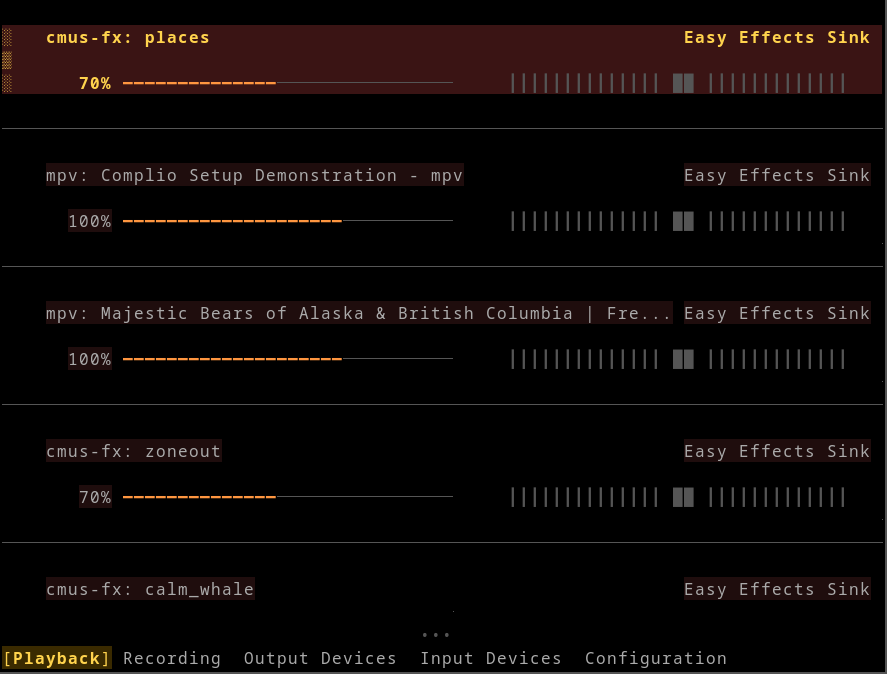
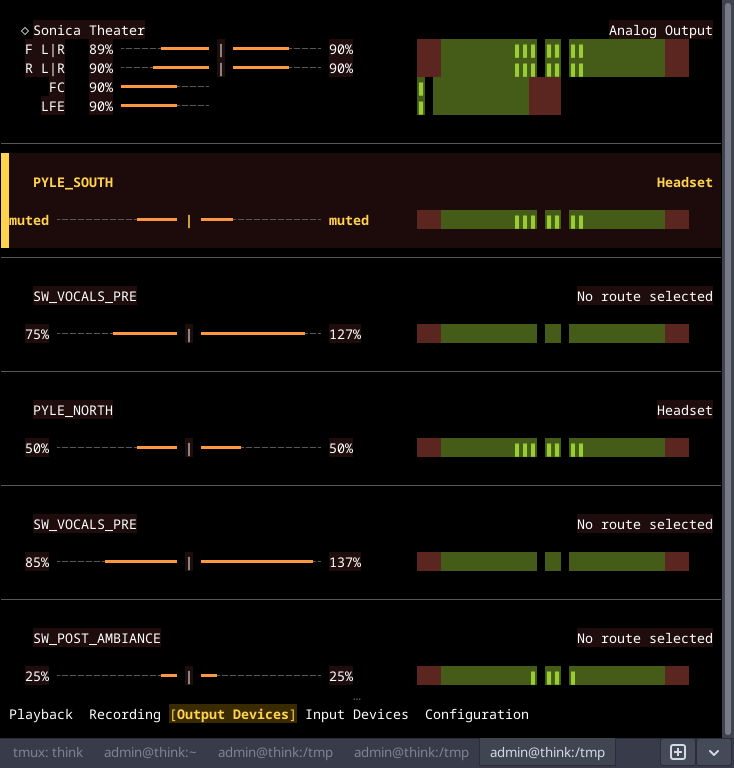
Replace intro screenshots with richer, feature-combining captures
The old default/dark-theme pair showed comparatively little: this
replaces them with captures showing item dividers, linked-view split/
radiating layout on a real 5.1 device, row selection styling, a muted
node, and a genuinely imbalanced stream (SW_VOCALS_PRE) all at once, on
real hardware with live peak activity - not a static/idle state. Also
adds a default vs compat char_set comparison pair, a missing "Peak meter
zone preview" bullet in What's included, and points the multichannel
bullet at PR #76's own longer screenshot gallery instead of duplicating
all of it here.

diff --git a/README.md b/README.md
@@ -35,22 +35,41 @@ experience here is very welcome.
 - **Selected-row text theming** — `row_selected`/`row_unselected` theme
   keys for customizing how the current row's text (not just its
   background) is highlighted.
+- **Peak meter zone preview** — an optional `meter_inactive_overload`
+  color (and matching `compat` glyph) that previews where the overload
+  boundary sits on a meter's unlit portion, before the signal actually
+  reaches it.
 - **A built-in dark theme** (`-t redshift -s redshift_compact`) — ready to
   try with no configuration file needed.
 - **Multichannel and channel-pairing support** — per-channel volume
-  control, an optional split display for a node's individual channels
-  (radiating from a shared center marker for a detected stereo pair, or
-  stacked one row per channel/group), a dedicated Channel mode for
-  addressing one channel at a time, and configurable per-view layout. This
-  is by far the largest change here — see its own section below.
+  control, three views cycled with `Space` (collapsed / linked / per-
+  channel), two ways to flag an imbalanced node without leaving the
+  collapsed view (`unified_imbalance = "cycle"` or `"split"`), radiating
+  or stacked split layout, and configurable per-view sizing. This is by
+  far the largest change here — see its own section below, and the
+  [multichannel-pairing PR](https://github.com/tsowell/wiremix/pull/76)
+  for a longer gallery covering each of these individually.
 
 | Default theme | Built-in dark theme (`-t redshift -s redshift_compact`) |
 | --- | --- |
 | ![Default theme](./assets/screenshot-default-theme.png) | ![Dark theme](./assets/screenshot-dark-theme.png) |
 
-Both show item dividers and split (radiating) volume/meter display for
-detected stereo pairs; the dark theme screenshot also shows the selected
-row's distinct text/background styling.
+Both show several features at once on real hardware with live peak
+activity: item dividers, `linked` view's split/radiating volume+meter
+display (a 5.1 device splits into its detected pairs plus unpaired
+channels; plain stereo devices radiate from a center marker), a selected
+row's distinct text/background styling, a muted node, and a genuinely
+imbalanced stream (`SW_VOCALS_PRE`, L≠R) shown split rather than
+averaged into one misleading number.
+
+| `default` char_set | `compat` char_set |
+| --- | --- |
+| ![default char_set](./assets/screenshot-charset-default.png) | ![compat char_set](./assets/screenshot-charset-compat.png) |
+
+Same devices, same `linked` view - `default`'s blockier filled-rectangle
+meter (`▮`) vs `compat`'s thin, seamless vertical bar (`┃`). Pick whichever
+reads better in your own terminal/font; `extracompat` (not pictured) goes
+a step further and stays plain-ASCII throughout.
 
 ## Merge sequence
 
